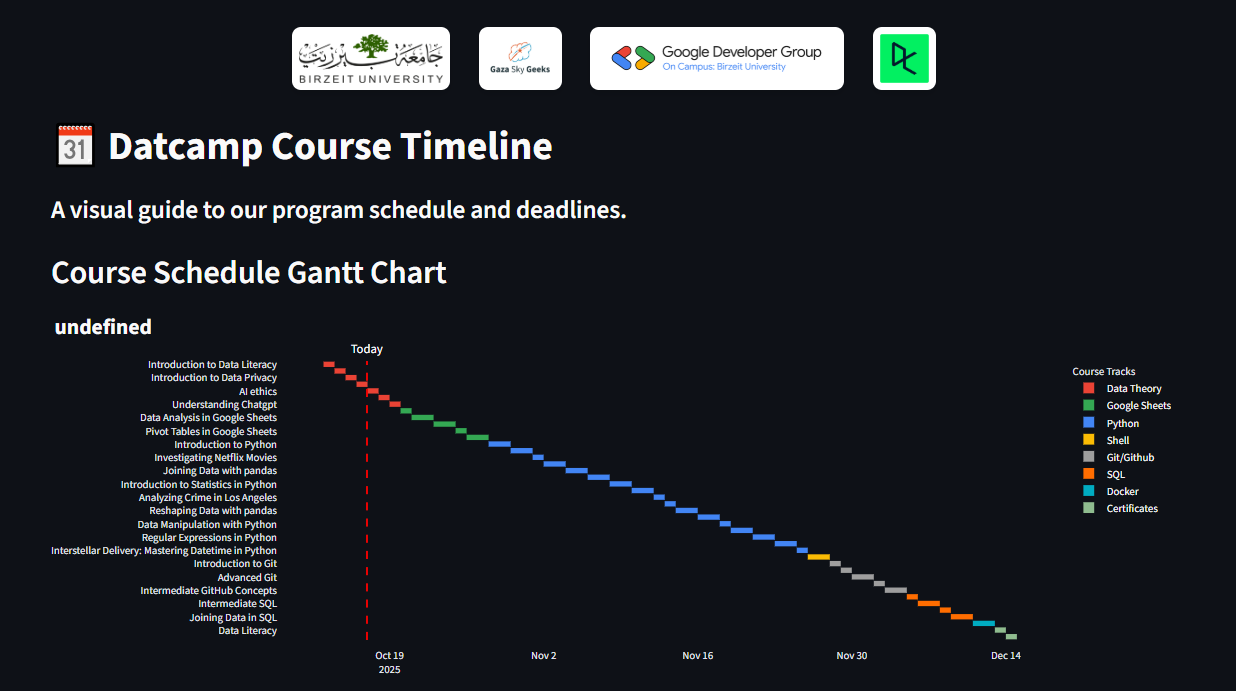
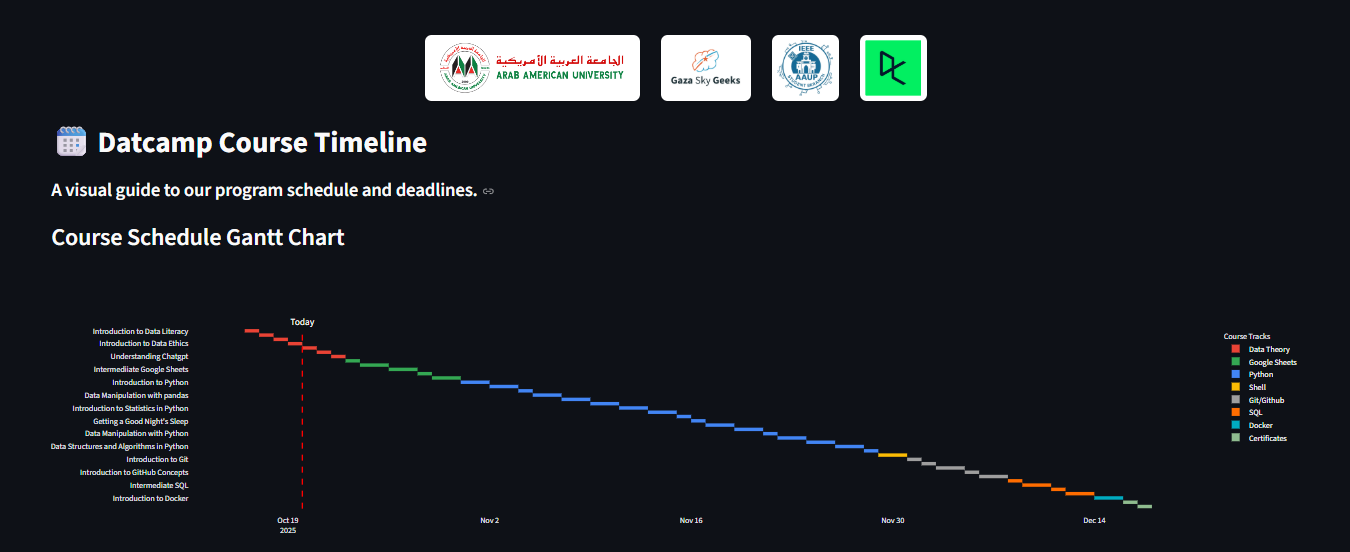
customized project for Arab American University

diff --git a/app.py b/app.py
@@ -28,10 +28,11 @@ def image_to_base64(path):
 # --- HEADER WITH EMBEDDED LOGOS ---
 try:
     # Convert all logos to Base64
-    bzu_logo_b64 = image_to_base64("bzu.png")
+    aaup_logo_b64 = image_to_base64("aaup.png")
     gsg_logo_b64 = image_to_base64("gsg.png")
-    gdg_logo_b64 = image_to_base64("gdg.png")
-    dc_logo_b64 = image_to_base64("dc.png")
+    ieee_logo_b64 = image_to_base64("ieee.png")
+    dc_logo_b64 = image_to_base64("datacamp.jpg")
+
 
     # Define the HTML and CSS for the logo bar
     logo_html = f"""
@@ -45,7 +46,7 @@ try:
             flex-wrap: wrap; 
         }}
         .logo-img {{
-            max-height: 70px; 
+            max-height: 100px; 
             padding: 8px;
             background-color: #FFFFFF; 
             border-radius: 10px;
@@ -53,10 +54,11 @@ try:
         }}
     </style>
     <div class="logo-container">
-        <img src="{bzu_logo_b64}" class="logo-img">
+        <img src="{aaup_logo_b64}" class="logo-img">
         <img src="{gsg_logo_b64}" class="logo-img">
-        <img src="{gdg_logo_b64}" class="logo-img">
+        <img src="{ieee_logo_b64}" class="logo-img">
         <img src="{dc_logo_b64}" class="logo-img">
+
     </div>
     """
     st.markdown(logo_html, unsafe_allow_html=True)
@@ -68,7 +70,7 @@ st.title("🗓 Datcamp Course Timeline")
 st.markdown("### A visual guide to our program schedule and deadlines.")
 
 # --- DATA LOADING AND PREPARATION ---
-SHEET_URL = "https://docs.google.com/spreadsheets/d/1DLS_qkd22eoASDaQTDke2q5K4Jhp4ZTxllr_icbj_Hg/export?format=csv&gid=531384324#gid=531384324"
+SHEET_URL = "https://docs.google.com/spreadsheets/d/1li7c_7VY1TTJc5q6yS06kmzHRMVgSraAWLI8BbNBWDY/export?format=csv&gid=531384324#gid=531384324"
 
 @st.cache_data(ttl=600)
 def load_data(url):

diff --git a/README.md b/README.md
@@ -1,10 +1,10 @@
 # 🚀 Interactive Course Schedule & Deadline Tracker 
 
-[![Streamlit App](https://static.streamlit.io/badges/streamlit_badge_black_white.svg)](https://bzudatacampdeadlines.streamlit.app/)
+<!-- [![Streamlit App](https://static.streamlit.io/badges/streamlit_badge_black_white.svg)](https://bzudatacampdeadlines.streamlit.app/) -->
 
 A dynamic, real-time timeline built to keep students organized and on track. Powered by Google Sheets and visualized with Streamlit & Plotly.
 
-![Dashboard Screenshot](screenshot.png)
+![Dashboard Screenshot](Screenshot.png)
 
 ## ✨ Why this is awesome
 
